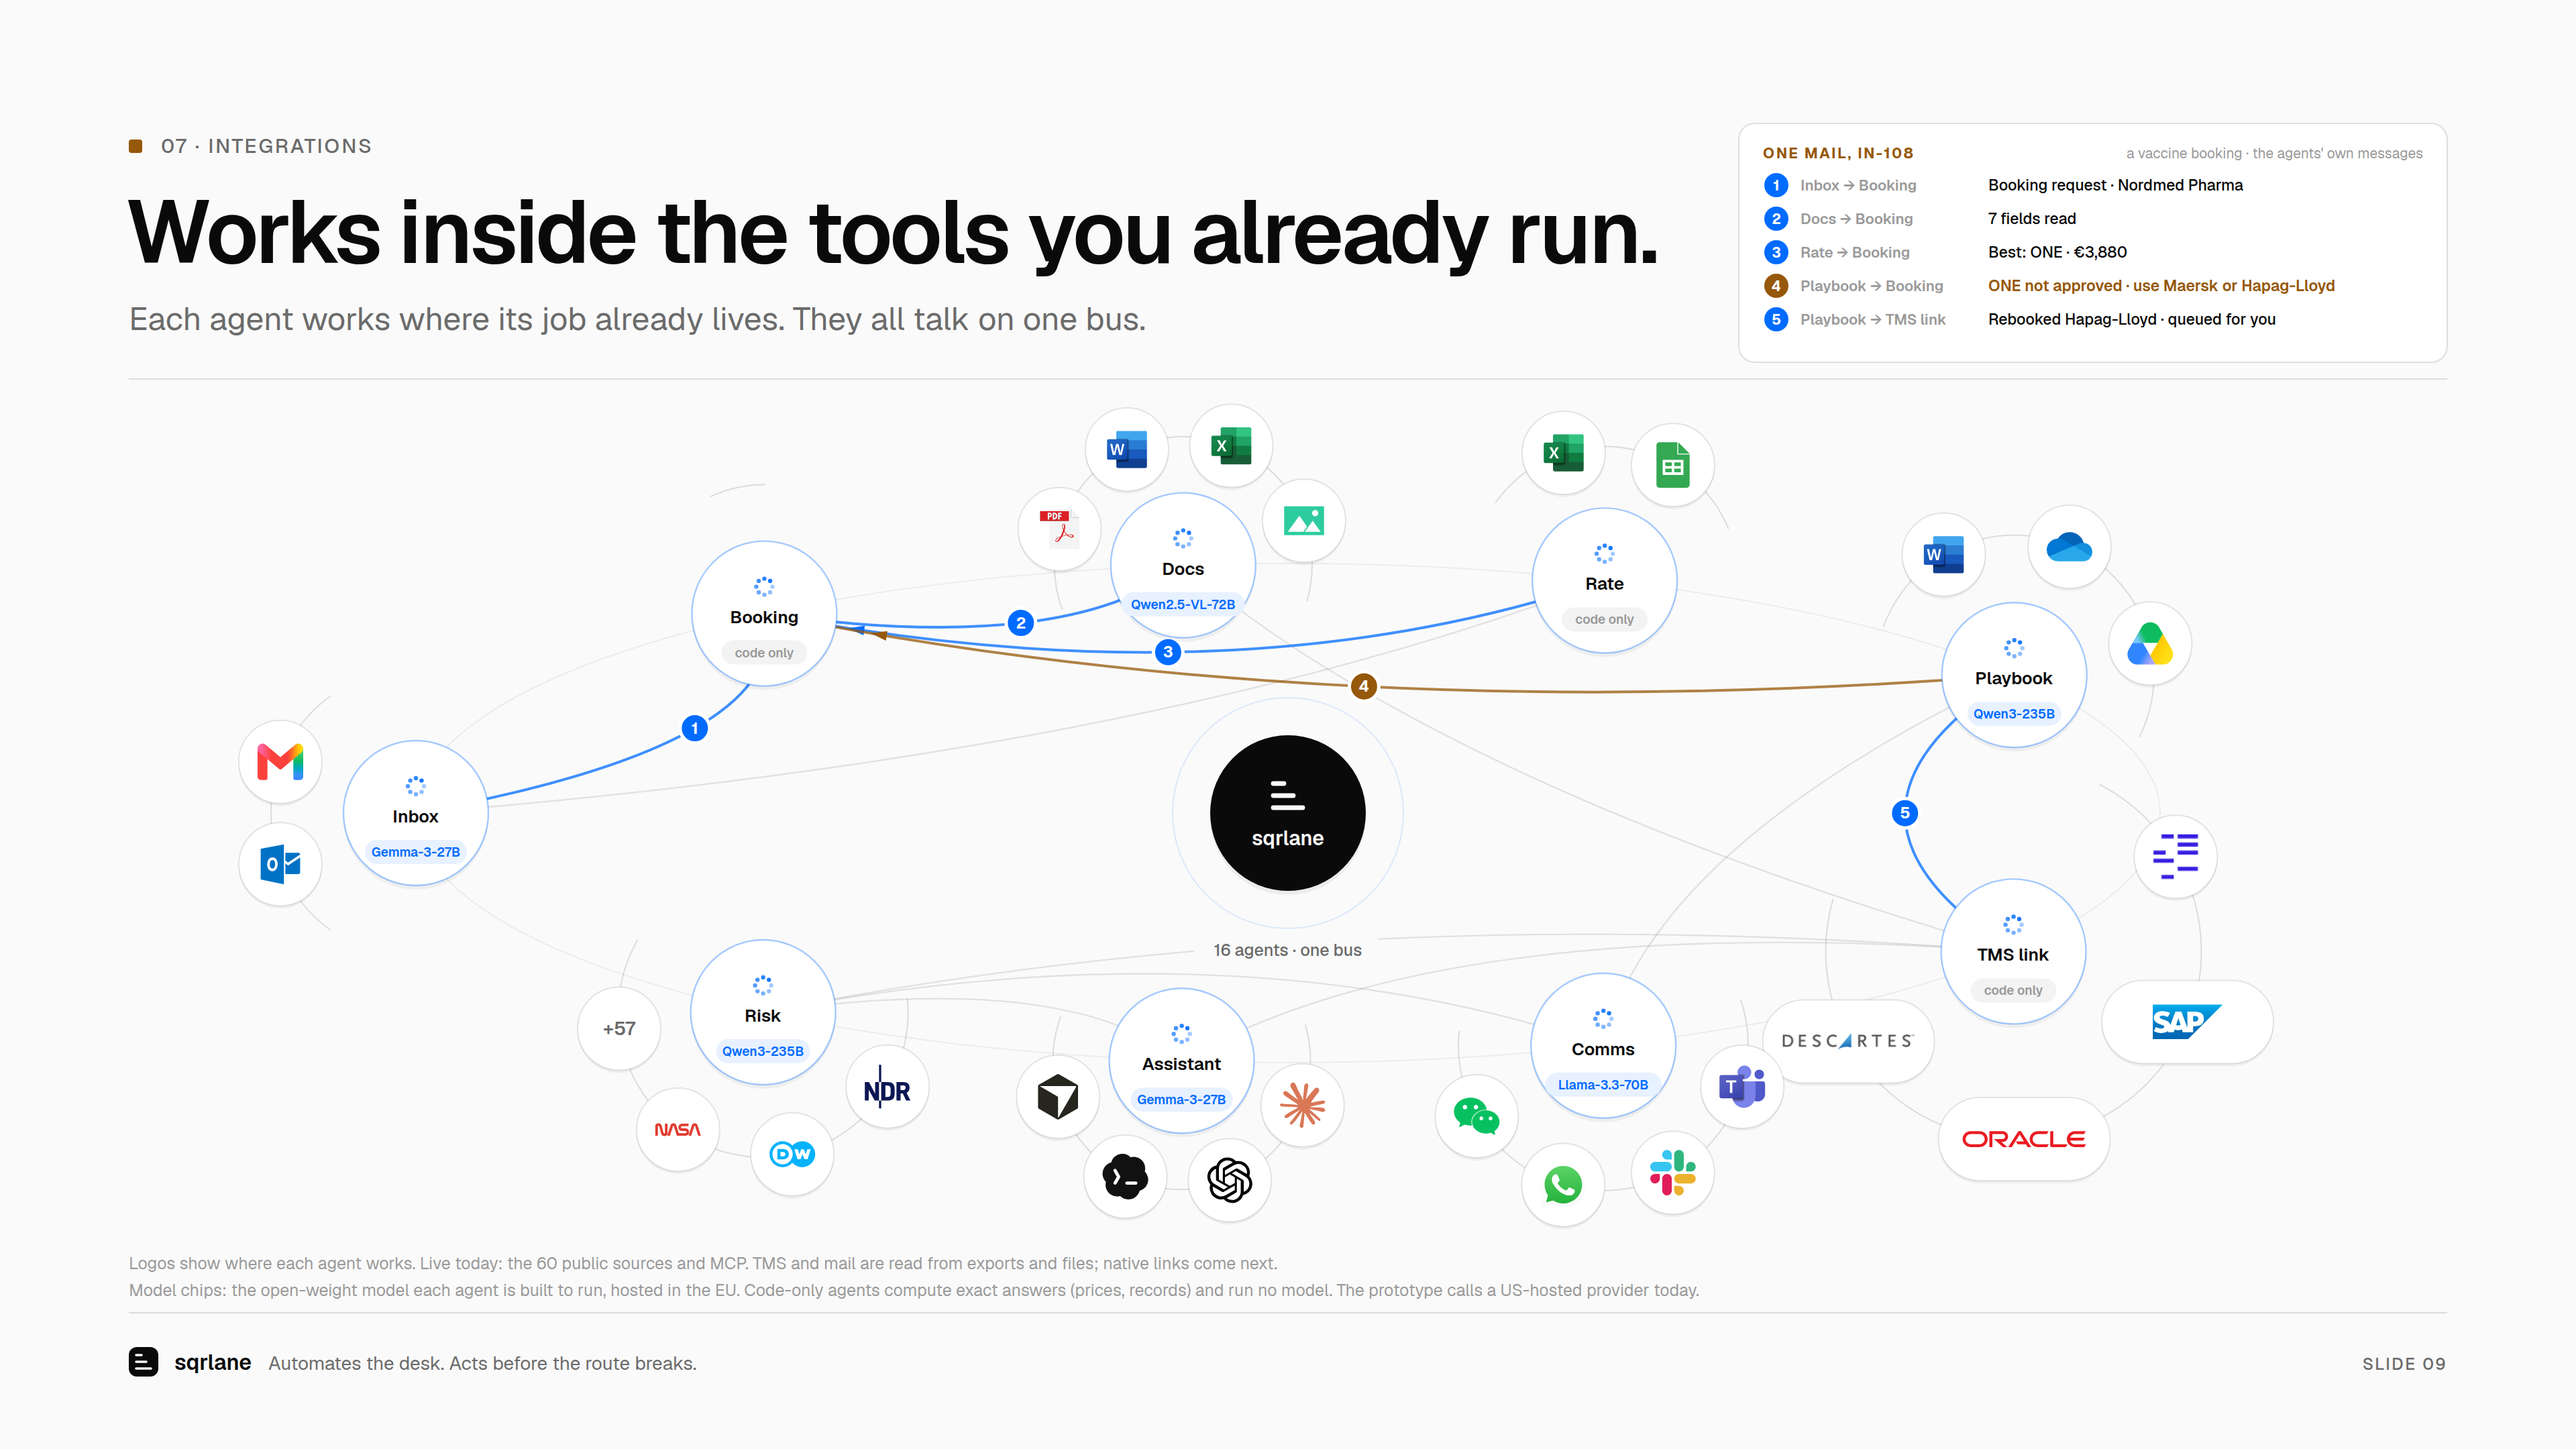
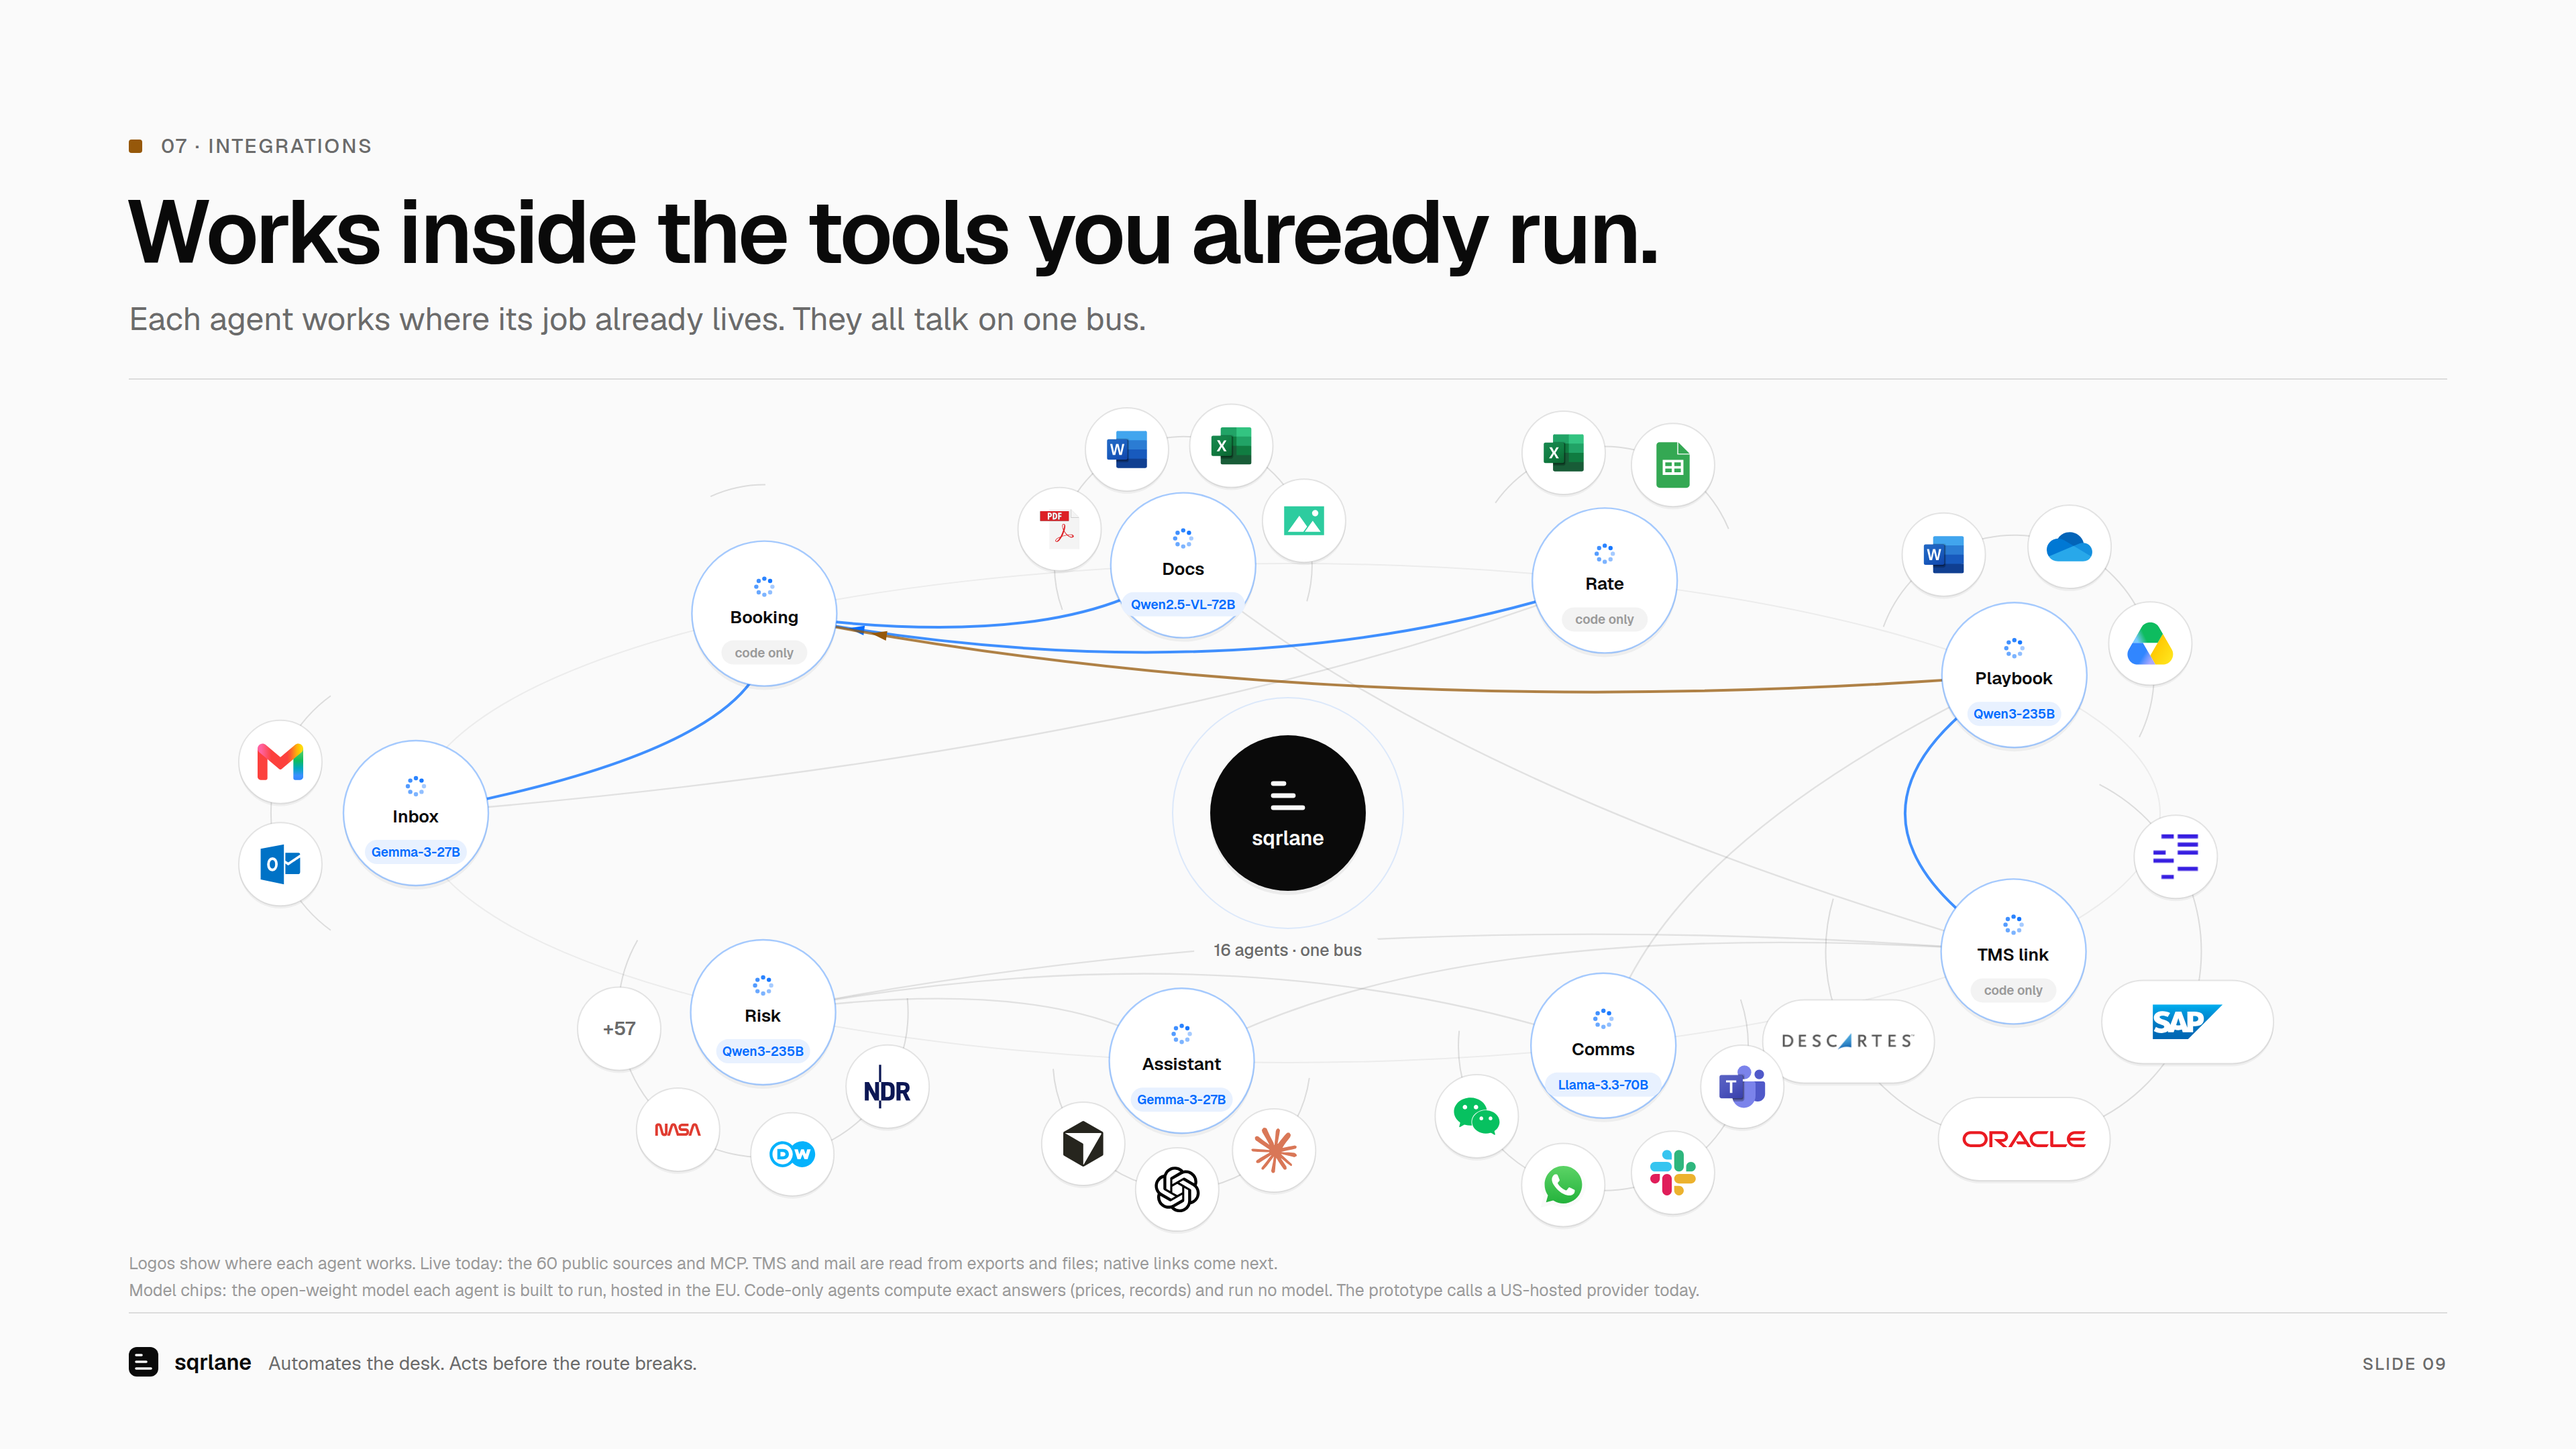
Whitepaper agent table matches the deck's model picks; slide 09 drops the IN-108 card and Codex
Whitepaper: the stronger open-weight model first for Risk, Inbox and Assistant, a vision
model for Docs and rule extraction for the Playbook (both marked not in this build), the
leaner option under each; the cost section adds an upper bound for the stronger mix
(every cycle token at Qwen3-235B-A22B's price: $0.0048 a cycle) and says which models are
not priced. The task and price table is unchanged.

Claude-Session: https://claude.ai/code/session_014BsH9ow2RbGmbV9G28PBg8

diff --git a/static/whitepaper.html b/static/whitepaper.html
@@ -577,7 +577,7 @@ footer a{color:var(--blue); text-decoration:underline; text-underline-offset:2px
     <section id="models">
       <h2 class="h32">The model layer</h2>
       <p class="lede copy14">
-        Six jobs with genuinely different requirements &mdash; and eleven of the sixteen
+        Six jobs with genuinely different requirements &mdash; and most of the sixteen
         agents need no model at all. Sizing each job separately, and not calling a model
         where code gives the same answer every time, is where nearly all the cost and
         latency savings live.
@@ -641,41 +641,45 @@ footer a{color:var(--blue); text-decoration:underline; text-underline-offset:2px
       <p class="copy16">
         The agents are named for the job a forwarding desk already has, in two layers: the
         risk layer, which runs when a lane moves, and the everyday desk, which runs on every
-        inbound mail. Five of the sixteen call a model. The rest are code &mdash; prices,
+        inbound mail. Five of the sixteen call a model in this build, and two more would
+        with work this build does not do yet: reading scanned documents, and turning a
+        customer&rsquo;s written instructions into rules. The rest are code &mdash; prices,
         weights, dates, rule checks and field values are computed, never generated &mdash;
         and code is both the cheapest and the most repeatable model there is.
       </p>
       <div class="scroller">
         <table>
-          <caption>Every agent, what it does, and the model it uses. Model classes from the table above; a scripted agent replays authored data and calls nothing.</caption>
+          <caption>Every agent, what it does, and the open-weight model it is built to run, EU-hosted &mdash; the stronger option first, the leaner one under it. A scripted agent replays authored data and calls nothing.</caption>
           <thead><tr><th>Agent</th><th>Its job</th><th>Model</th></tr></thead>
           <tbody>
             <tr><td colspan="3" class="grp"><b>Risk layer &middot; when a lane moves</b></td></tr>
-            <tr><td><b>Risk</b></td><td>Reads sixty sources; flags the exception on the booking a disruption threatens.</td><td class="k">Qwen3.5-9B<span class="sub">prose only &mdash; gauges, gusts, waves and quakes go to a threshold</span></td></tr>
+            <tr><td><b>Risk</b></td><td>Reads sixty sources; flags the exception on the booking a disruption threatens.</td><td class="k">Qwen3-235B-A22B<span class="sub">or Qwen3.5-9B; prose only &mdash; gauges, gusts, waves and quakes go to a threshold</span></td></tr>
             <tr><td><b>Routing</b></td><td>Reroute, hold or leave on plan, with the reasoning; writes the booking change.</td><td class="k">Qwen3-235B-A22B<span class="sub">DeepSeek-V4-Pro if the reasoning needs it</span></td></tr>
             <tr><td><b>Comms</b></td><td>Drafts the carrier and the customer mail each decision implies; sends nothing.</td><td class="k">Llama-3.3-70B<span class="sub">or Qwen3-235B-A22B</span></td></tr>
             <tr><td><b>Planner</b></td><td>Sweeps the forward book before departure: act now, tripwire armed, or stand down.</td><td class="k">None today<span class="sub">scripted</span></td></tr>
             <tr><td><b>TMS link</b></td><td>The only door to the book, and every agent&rsquo;s output queued back onto it.</td><td class="k">None<span class="sub">code; demo connector</span></td></tr>
             <tr><td colspan="3" class="grp"><b>Everyday desk &middot; on every mail</b></td></tr>
-            <tr><td><b>Inbox</b></td><td>What the mail is, whose it is, which agent owns it.</td><td class="k">Qwen3.5-9B<span class="sub">one batched call; rules as fallback</span></td></tr>
-            <tr><td><b>Playbook</b></td><td>Checks every output against the customer&rsquo;s standing rules; sends it back until it complies.</td><td class="k">None<span class="sub">structured rules, checked by code</span></td></tr>
+            <tr><td><b>Inbox</b></td><td>What the mail is, whose it is, which agent owns it.</td><td class="k">Gemma-3-27B<span class="sub">or Qwen3.5-9B; one batched call; rules as fallback</span></td></tr>
+            <tr><td><b>Playbook</b></td><td>Checks every output against the customer&rsquo;s standing rules; sends it back until it complies.</td><td class="k">Qwen3-235B-A22B<span class="sub">turns a customer&rsquo;s written instructions into rules, once per customer; every check stays code. Not in this build: rules are authored</span></td></tr>
             <tr><td><b>Rate</b></td><td>Prices a lane from the rate sheet for any agent that asks.</td><td class="k">None<span class="sub">arithmetic</span></td></tr>
             <tr><td><b>RFQ</b></td><td>Reads a rate request into fields, drafts the quote, queues the quotation.</td><td class="k">None<span class="sub">parser and template</span></td></tr>
             <tr><td><b>Booking</b></td><td>Opens or amends the booking from the mail and its documents; holds what it cannot verify.</td><td class="k">None</td></tr>
-            <tr><td><b>Docs</b></td><td>Reads the fields off the documents and checks them against the booking.</td><td class="k">None<span class="sub">text documents only &mdash; scanned PDFs would need a vision model, not in this build</span></td></tr>
+            <tr><td><b>Docs</b></td><td>Reads the fields off the documents and checks them against the booking.</td><td class="k">Qwen2.5-VL-72B<span class="sub">a vision model for scanned PDFs and photos; field checks stay code. Not in this build, which reads text documents only</span></td></tr>
             <tr><td><b>Milestones</b></td><td>Writes carrier notices onto the booking; answers where-is-my-box from the record.</td><td class="k">None</td></tr>
             <tr><td><b>Exception</b></td><td>Opens the exception on a rolled box or a mismatched document; escalates what the desk cannot absorb.</td><td class="k">None</td></tr>
             <tr><td><b>Invoice</b></td><td>Reconciles the carrier invoice against the agreed rate; drafts the dispute.</td><td class="k">None</td></tr>
             <tr><td><b>Customs</b></td><td>Prepares the entry for the discharge country; escalates a transit, never files.</td><td class="k">None</td></tr>
-            <tr><td><b>Assistant</b></td><td>Takes a person&rsquo;s question, hands it to the agent who owns it, and says so when none does.</td><td class="k">Qwen3.5-9B<span class="sub">routes and rewords; the facts are built from the run and checked; rules as fallback</span></td></tr>
+            <tr><td><b>Assistant</b></td><td>Takes a person&rsquo;s question, hands it to the agent who owns it, and says so when none does.</td><td class="k">Gemma-3-27B<span class="sub">or Qwen3.5-9B; routes and rewords; the facts are built from the run and checked; rules as fallback</span></td></tr>
           </tbody>
         </table>
       </div>
       <p class="copy16">
-        That split is the efficiency recommendation in one line: <b>a small model where the
-        answer is a label, a mid-size mixture-of-experts model where the answer is a judgement
-        someone will challenge, a strong writer where tone is the deliverable, and no model
-        at all where the answer can be computed.</b> Qwen3-235B-A22B earns the judgement slot
+        That split is the recommendation in one line: <b>a capable mid-size model where the
+        answer is a label that sends work somewhere, a large mixture-of-experts model where the
+        answer is a judgement someone will challenge or a source that must not be missed, a
+        strong writer where tone is the deliverable, a vision model where the input is a
+        picture, and no model at all where the answer must be exact</b> &mdash; a price, a
+        weight, a rule check, a write to the record. Qwen3-235B-A22B earns the judgement slot
         because only about 22 billion of its parameters work on each token, which puts a large
         model&rsquo;s reasoning at close to a small one&rsquo;s price. Every agent also records
         the reason for each message it posts &mdash; the cues that classified a mail, the
@@ -709,6 +713,14 @@ footer a{color:var(--blue); text-decoration:underline; text-underline-offset:2px
         thirteen-mail morning, measured from the prompt, and an estimated 350 out &mdash;
         roughly <b>$0.0002</b> at the screening price, and a little more as a person&rsquo;s
         corrections are added to the prompt as context.
+      </p>
+      <p class="copy16">
+        The stronger picks in the agent table change one stage of the cycle: screening runs
+        on Qwen3-235B-A22B instead of Qwen3.5-9B. Pricing every token of the cycle at that
+        model&rsquo;s rate gives an upper bound of <b>$0.0048</b> a cycle &mdash; about
+        $17 a year at ten cycles a day, $87 at fifty &mdash; still about seven times under
+        the frontier figure. Gemma-3-27B and Qwen2.5-VL-72B are not priced in the catalogue
+        extract used here; the vision model would be paid per document, not per cycle.
       </p>
       <p class="copy16">
         Sizing each stage separately is <b>about ten times cheaper</b> than reaching for a

diff --git a/deck/v2/build_09.py b/deck/v2/build_09.py
@@ -78,7 +78,7 @@ NODES = [
     ("Playbook",  340, 104, ["Word", "OneDrive", "GoogleDrive"]),
     ("TMS link",   20, 140, [("cw",), ("tms", "SAP"), ("tms", "Oracle"), ("tms", "Descartes")]),
     ("Comms",      60, 108, ["Teams", "Slack", "WhatsApp", "WeChat"]),
-    ("Assistant", 100, 96, ["Claude", "ChatGPT", "Codex", "Cursor"]),
+    ("Assistant", 100, 96, ["Claude", "ChatGPT", "Cursor"]),
     ("Risk",      140, 108, ["NDR", "DW", "NASA", ("more", "+57")]),
 ]
 # The open-weight model each agent is built to run, EU-hosted - the strong end of the
@@ -144,23 +144,8 @@ for a, b, n, msg, col in THREAD:
     ang = math.atan2(ey - fy, ex - fx)
     s.raw(f'<path d="M{ex + 7*math.cos(ang):.1f} {ey + 7*math.sin(ang):.1f} L{ex + 6*math.cos(ang+2.5):.1f} {ey + 6*math.sin(ang+2.5):.1f} L{ex + 6*math.cos(ang-2.5):.1f} {ey + 6*math.sin(ang-2.5):.1f} Z" fill="{col}"/>')
     labels.append((at(c, LABEL_T[n]), n, msg, col))
-for (lx, ly), n, msg, col in labels:
-    s.raw(f'<circle cx="{lx:.1f}" cy="{ly:.1f}" r="11" fill="{col}" stroke="{CARD}" stroke-width="2.5"/>')
-    s.T(lx, ly + 4, n, 11.5, 700, CARD, anchor="middle")
 s.end()
-# the card: what the agents said, in their own words (workflow.run, IN-108)
-TX0, TY0, TW0, TH0 = 1296, 92, W - M - 1296, 178
-s.g("thread-card")
-s.card(TX0, TY0, TW0, TH0, 12)
-s.T(TX0 + 18, TY0 + 26, "ONE MAIL, IN-108", 11, 700, AMB, ls=1.2)
-s.T(TX0 + TW0 - 18, TY0 + 26, "a vaccine booking · the agents' own messages", 10.5, 400, GREY, anchor="end")
-for k, (a, b, n, msg, col) in enumerate(THREAD):
-    yy = TY0 + 50 + k * 25
-    s.raw(f'<circle cx="{TX0 + 28}" cy="{yy - 4}" r="9" fill="{col}"/>')
-    s.T(TX0 + 28, yy, n, 10.5, 700, CARD, anchor="middle")
-    s.T(TX0 + 46, yy, f"{a} → {b if n != '5' else 'TMS link'}", 11, 600, GREY)
-    s.T(TX0 + 186, yy, msg, 11.5, 600 if col == AMB_L else 500, col if col == AMB_L else INK)
-s.end()
+
 
 # ---- the centre: SQRlane
 s.g("sqrlane")
